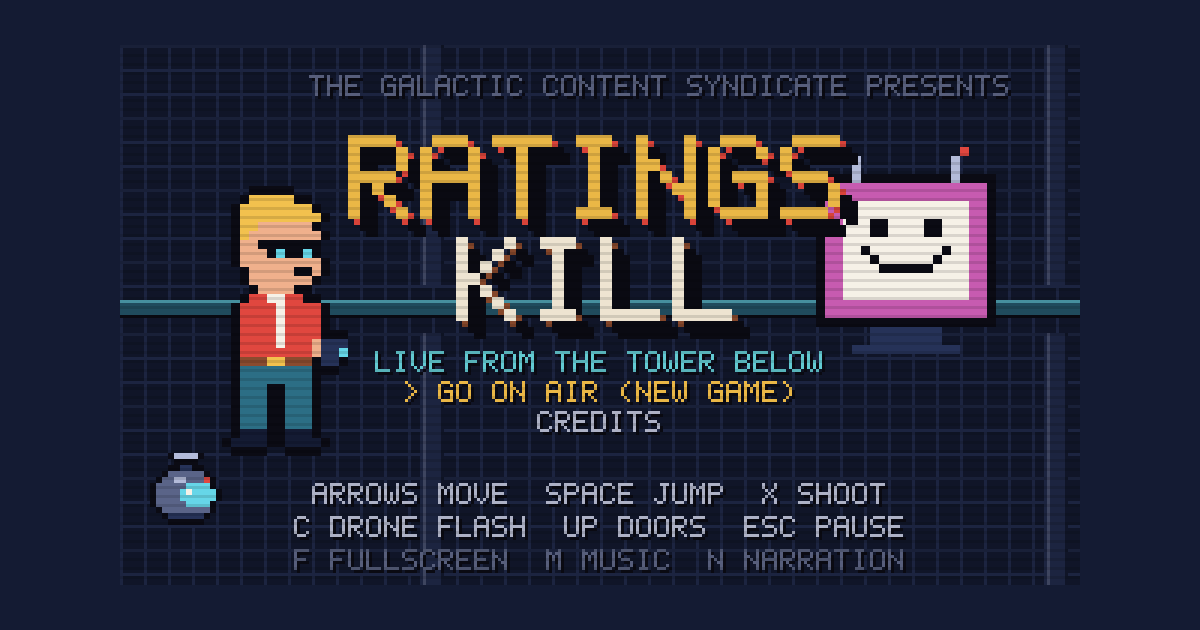
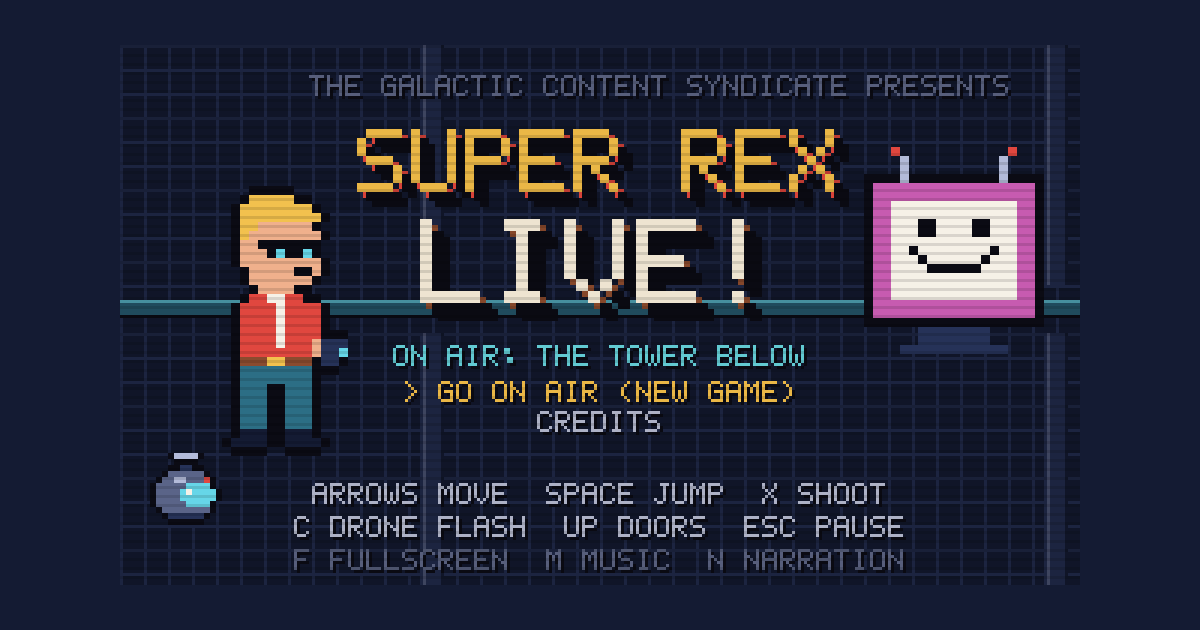
Rename

Changed region(s): [[0.2775, 0.181, 0.8942, 0.6032]]

diff --git a/web/shell.html b/web/shell.html
@@ -3,20 +3,20 @@
 	<head>
 		<meta charset="utf-8">
 		<meta name="viewport" content="width=device-width, user-scalable=no, initial-scale=1.0">
-		<title>Ratings Kill</title>
+		<title>Super Rex Live!</title>
 		<meta name="description" content="A pixel-art run-and-gun platformer broadcast live across the galaxy. Fight down four floors of the Tower Below, play to the audience, and survive the season finale. Free in your browser.">
 		<meta name="theme-color" content="#141b33">
 		<meta property="og:type" content="website">
-		<meta property="og:site_name" content="Ratings Kill">
-		<meta property="og:title" content="Ratings Kill">
+		<meta property="og:site_name" content="Super Rex Live!">
+		<meta property="og:title" content="Super Rex Live!">
 		<meta property="og:description" content="A pixel-art run-and-gun platformer broadcast live across the galaxy. Play free in your browser.">
-		<meta property="og:url" content="https://ratingskillgame.com/">
-		<meta property="og:image" content="https://ratingskillgame.com/og.png">
+		<meta property="og:url" content="https://superrexlive.com/">
+		<meta property="og:image" content="https://superrexlive.com/og.png">
 		<meta property="og:image:width" content="1200">
 		<meta property="og:image:height" content="630">
-		<meta property="og:image:alt" content="The Ratings Kill title screen: Rex Halloway, the camera drone B0-0M, and the Showrunner on a TV.">
+		<meta property="og:image:alt" content="The Super Rex Live! title screen: Rex Halloway, the camera drone B0-0M, and the Showrunner on a TV.">
 		<meta name="twitter:card" content="summary_large_image">
-		<link rel="canonical" href="https://ratingskillgame.com/">
+		<link rel="canonical" href="https://superrexlive.com/">
 		<style>
 :root {
 	--navy: #141b33;
@@ -155,16 +155,16 @@ body.loading #status-progress {
 		</canvas>
 
 		<noscript>
-			Ratings Kill needs JavaScript to run.
+			Super Rex Live! needs JavaScript to run.
 		</noscript>
 
 		<div id="status">
-			<img id="status-splash" src="title.png" alt="Ratings Kill title screen" width="320" height="180">
+			<img id="status-splash" src="title.png" alt="Super Rex Live! title screen" width="320" height="180">
 			<p id="tagline">Rex Halloway fights his way down the Tower Below, live on galactic TV.
 				Play to the audience: style raises your ratings, and ratings pay.</p>
 			<div id="mobile-note">
 				<strong>Keyboard or controller needed.</strong><br>
-				Ratings Kill doesn't have touch controls yet, so it won't play on a phone or tablet.
+				Super Rex Live! doesn't have touch controls yet, so it won't play on a phone or tablet.
 				Come back on a computer, or press Play anyway if you have a keyboard or controller connected.
 			</div>
 			<button id="play" type="button">PLAY</button>
@@ -223,7 +223,7 @@ const engine = new Engine(GODOT_CONFIG);
 	});
 	if (missing.length !== 0) {
 		playButton.style.display = 'none';
-		displayFailureNotice('Sorry! This browser is missing features Ratings Kill needs:\n' + missing.join('\n'));
+		displayFailureNotice('Sorry! This browser is missing features Super Rex Live! needs:\n' + missing.join('\n'));
 		return;
 	}
 

diff --git a/tools/gen_art.py b/tools/gen_art.py
@@ -1,5 +1,5 @@
 #!/usr/bin/env python3
-"""Generate every sprite, tile and the pixel font for Ratings Kill.
+"""Generate every sprite, tile and the pixel font for Super Rex Live!.
 
 All art is drawn from one fixed 16-color palette, so everything matches.
 Pure standard library: run `python3 tools/gen_art.py` from the project root.

diff --git a/tools/gen_audio.py b/tools/gen_audio.py
@@ -1,5 +1,5 @@
 #!/usr/bin/env python3
-"""Generate retro sound effects and chiptune loops for Ratings Kill.
+"""Generate retro sound effects and chiptune loops for Super Rex Live!.
 
 A tiny jsfxr-style synth in pure standard library Python. Run from the
 project root with `python3 tools/gen_audio.py`. Output: assets/audio/*.wav

diff --git a/README.md b/README.md
@@ -1,11 +1,12 @@
-# Ratings Kill
+# Super Rex Live!
 
 A Duke Nukem (1991)-style run-and-gun platformer. Rex Halloway, a former mattress-commercial star, fights his way down
 the Tower Below while the Galactic Content Syndicate broadcasts it live. Stylish play fills the ratings meter, a full
 meter buys sponsor drops and multiplies every dollar you earn, and a bored audience makes the Showrunner "spice
 things up".
 
-Design doc: [docs/GAME_DESIGN.txt](docs/GAME_DESIGN.txt).
+Design doc: [docs/GAME_DESIGN.txt](docs/GAME_DESIGN.txt). The game was called *Ratings Kill* until launch prep; the doc and this repo's folder still use
+that name.
 
 ## Status
 
@@ -32,7 +33,7 @@ episode.
   Network HQ hits harder
 - **Saving**: progress saves after every level; Continue on the title screen resumes in the break room
 - **Show layer**: Showrunner and B0-0M dialogue (narrated), 19 achievements, the break-room shop, Boom's flash-stun,
-  Rex's quips with QUIP KILL bonuses
+  Rex's quips with QUIP COMBO bonuses
 - Title screen, pause menu, end-of-floor and end-of-season cards, music per floor and per boss
 
 Not built yet: Tanya Voss cameos. Cut levels (*Rush Hour Ruins*, and the original *Express Line* and *Last Stop*, now
@@ -78,17 +79,17 @@ Export templates for Godot 4.7.2 are needed once (Editor → Manage Export Templ
 
 ```bash
 sh tools/build_web.sh   # web build + website extras + itch.io zip
-/Applications/Godot.app/Contents/MacOS/Godot --headless --path . --export-release "macOS" build/mac/RatingsKill.zip
+/Applications/Godot.app/Contents/MacOS/Godot --headless --path . --export-release "macOS" build/mac/SuperRexLive.zip
 node tools/serve_web.mjs 8060   # then open http://localhost:8060
 ```
 
 The web page is `web/shell.html`: a start screen with a Play button (nothing downloads until it's pressed), a notice for
-phones and tablets, link-preview tags for ratingskillgame.com, and a link to `licenses.txt` (the Godot license and its
+phones and tablets, link-preview tags for superrexlive.com, and a link to `licenses.txt` (the Godot license and its
 third-party notices, also shown in the in-game Credits). `web/title.png` and `web/og.png` come from
 `tools/make_web_images.py`.
 
 The web build is single-threaded, so it runs on any static host (itch.io, Netlify, GitHub Pages) without special
-headers. For itch.io, upload `build/ratings-kill-web.zip` as an HTML game.
+headers. For itch.io, upload `build/super-rex-live-web.zip` as an HTML game.
 
 ## How it's made
 
